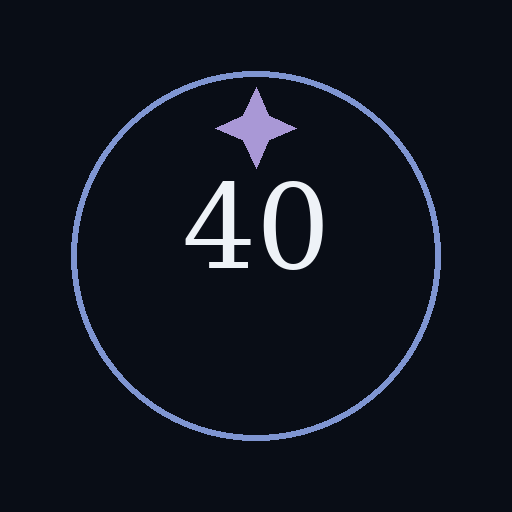
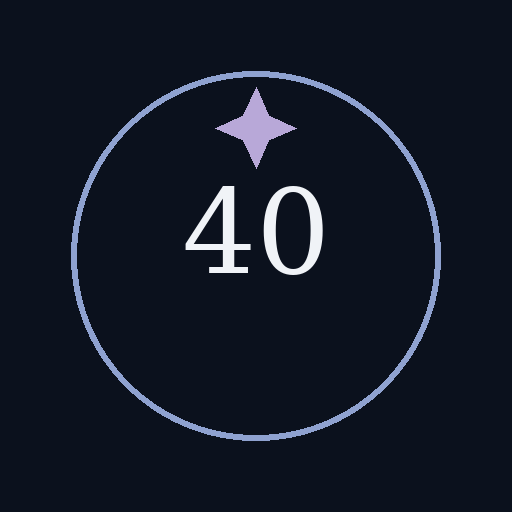
Add files via upload

Changed region(s): [[0.3438, 0.3438, 0.625, 0.5625], [0.5, 0.3438, 0.625, 0.4062]]

diff --git a/styles.css b/styles.css
@@ -1,47 +1,77 @@
 
 :root{
- --ink:#090d16;--surface:#111827;--surface2:#151e2e;--line:#32405a;
- --moon:#eef2f7;--mist:#9aa8bb;--magic:#7f95d1;--magic2:#a998d6;
- --success:#93d8c4;--warning:#d8bd84;--danger:#d99aa5;
+ --ink:#0b111d;--surface:#131c2a;--surface2:#172232;--line:#3d4c63;
+ --moon:#f0f3f7;--mist:#a6b2c2;--magic:#8fa2d0;--magic2:#b8a8d8;
+ --success:#79c9a8;--warning:#d4b36e;--danger:#d98f9e;--red:#d95d68;
 }
 *{box-sizing:border-box}
+html{scroll-behavior:smooth}
 html,body{margin:0;min-height:100%;background:var(--ink);color:var(--moon);
-font-family:Inter,ui-sans-serif,system-ui,-apple-system,BlinkMacSystemFont,"Segoe UI",sans-serif}
+font-family:Inter,ui-sans-serif,system-ui,-apple-system,BlinkMacSystemFont,"Segoe UI",Roboto,Arial,sans-serif}
 body{min-height:100vh;background:
-radial-gradient(circle at 50% -10%,rgba(127,149,209,.13),transparent 35%),
-linear-gradient(180deg,#0c111d 0%,#080c14 65%,#070a10 100%)}
-.stars{position:fixed;inset:0;pointer-events:none;opacity:.28;background-image:
+radial-gradient(circle at 50% -10%,rgba(143,162,208,.12),transparent 36%),
+linear-gradient(180deg,#0f1725 0%,#0b111d 70%,#080d16 100%)}
+.stars{position:fixed;inset:0;pointer-events:none;opacity:.22;background-image:
 radial-gradient(circle at 20% 15%,#fff 0 1px,transparent 1.3px),
 radial-gradient(circle at 72% 11%,#fff 0 1px,transparent 1.3px),
 radial-gradient(circle at 84% 42%,#fff 0 1px,transparent 1.3px),
 radial-gradient(circle at 10% 58%,#fff 0 1px,transparent 1.3px);
 background-size:260px 260px,340px 340px,390px 390px,310px 310px}
-.app-shell{position:relative;width:min(100%,760px);margin:auto;min-height:100vh;padding:38px 22px 55px}
+.app-shell{position:relative;width:min(92vw,820px);margin:auto;min-height:100vh;padding:clamp(24px,4vw,52px) clamp(14px,3vw,28px) 56px}
 .screen{display:none;width:100%;animation:fade .22s ease}.screen.active{display:block}
-@keyframes fade{from{opacity:0;transform:translateY(5px)}to{opacity:1;transform:none}}
-.masthead{text-align:center;padding:8px 0 20px}.sigil,.secret-mark{text-align:center;color:var(--magic2);font-size:34px;margin-bottom:10px}
-.overline,.day-eyebrow,.section-heading,.card-label{font-size:11px;font-weight:750;letter-spacing:2.2px;color:var(--magic);text-align:center}
-h1{font-family:Georgia,"Times New Roman",serif;font-size:clamp(36px,7vw,58px);font-weight:500;letter-spacing:1px;margin:10px 0 8px}
-h1 span{font-style:italic;color:#c8bce5}h2{font-family:Georgia,"Times New Roman",serif;text-align:center;font-size:clamp(28px,5vw,38px);font-weight:500;margin:12px 0 22px}
-.tagline,.muted{color:var(--mist);text-align:center;line-height:1.55}.tagline{margin:0;font-family:Georgia,serif;font-style:italic;font-size:17px}
-.welcome-card,.score-card,.puzzle-card{background:linear-gradient(180deg,rgba(21,30,46,.88),rgba(14,21,33,.9));border:1px solid var(--line);border-radius:18px;box-shadow:0 18px 55px rgba(0,0,0,.25)}
+@keyframes fade{from{opacity:0;transform:translateY(4px)}to{opacity:1;transform:none}}
+.masthead{text-align:center;padding:6px 0 20px}.sigil,.secret-mark{text-align:center;color:var(--magic2);font-size:34px;margin-bottom:9px}
+.overline,.day-eyebrow,.section-heading,.card-label{font-size:clamp(10px,1.6vw,12px);font-weight:750;letter-spacing:2px;color:var(--magic);text-align:center}
+h1{font-family:Georgia,"Times New Roman",serif;font-size:clamp(34px,6vw,58px);font-weight:500;letter-spacing:.8px;margin:10px 0 8px}
+h1 span{font-style:italic;color:#c9bce4}h2{font-family:Georgia,"Times New Roman",serif;text-align:center;font-size:clamp(27px,4.5vw,38px);font-weight:500;margin:12px 0 22px}
+.tagline,.muted{color:var(--mist);text-align:center;line-height:1.55}.tagline{margin:0;font-family:Georgia,serif;font-style:italic;font-size:clamp(15px,2vw,17px)}
+.welcome-card,.score-card,.puzzle-card{background:linear-gradient(180deg,rgba(23,34,50,.9),rgba(15,23,36,.94));border:1px solid var(--line);border-radius:18px;box-shadow:0 18px 55px rgba(0,0,0,.22)}
 .welcome-card{padding:24px;text-align:center;margin:18px 0}.welcome-card p{color:#c4ccd8;line-height:1.65;margin:12px 0 0}
-.score-card{padding:22px;margin:14px 0 28px}.score-title{text-align:center;font-size:13px;font-weight:800;letter-spacing:1.5px;color:#c6cfdd}.score-title span{font-family:Georgia,serif;font-style:italic;font-weight:400;color:var(--mist);letter-spacing:0}
-.score-main{display:flex;justify-content:center;align-items:center;gap:25px;margin:18px 0}.score-main>div:not(.score-divider){display:flex;flex-direction:column;align-items:center;min-width:90px}.score-main strong{font-family:Georgia,serif;font-size:46px;font-weight:500}.score-main small{font-size:9px;letter-spacing:1.5px;color:var(--mist)}.score-divider{color:#52627d;font-size:28px}
-.score-stats{border-top:1px solid rgba(255,255,255,.07);padding-top:14px;display:flex;flex-wrap:wrap;justify-content:center;gap:10px 20px;color:var(--mist);font-size:12px}.score-stats b{color:var(--moon)}
+.score-card{padding:22px;margin:14px 0 28px}.score-title{text-align:center;font-size:13px;font-weight:800;letter-spacing:1.4px;color:#c6cfdd}.score-title span{font-family:Georgia,serif;font-style:italic;font-weight:400;color:var(--mist);letter-spacing:0}
+.score-main{display:flex;justify-content:center;align-items:center;gap:clamp(12px,4vw,28px);margin:18px 0}.score-main>div:not(.score-divider){display:flex;flex-direction:column;align-items:center;min-width:80px}.score-main strong{font-family:Georgia,serif;font-size:clamp(38px,7vw,48px);font-weight:500}.score-main small{font-size:9px;letter-spacing:1.4px;color:var(--mist)}.score-divider{color:#52627d;font-size:28px}
+.score-stats{border-top:1px solid rgba(255,255,255,.07);padding-top:14px;display:flex;flex-wrap:wrap;justify-content:center;gap:10px 18px;color:var(--mist);font-size:12px}.score-stats b{color:var(--moon)}
 .section-heading{margin:10px 0 14px}.day-grid{display:grid;grid-template-columns:repeat(2,minmax(0,1fr));gap:12px}
-.day-card{appearance:none;text-align:left;padding:17px;border-radius:15px;border:1px solid #273348;background:rgba(17,24,39,.88);color:var(--moon);cursor:pointer;min-height:104px}
-.day-card:hover{border-color:#4d5f83}.day-card.today{border-color:var(--magic);box-shadow:0 0 0 1px rgba(127,149,209,.12) inset}.day-card .day{font-family:Georgia,serif;font-size:21px}.day-card .date{font-size:11px;color:var(--mist);margin-top:5px}.day-card .state{font-size:12px;margin-top:12px;color:#aebbd0}.day-card .solved{color:var(--success)}.day-card .flag{color:var(--warning)}
-.prototype-note{text-align:center;color:#66758c;font-size:10px;margin-top:18px}
-.home-link{appearance:none;background:none;border:0;color:#8391a7;font-size:11px;font-weight:750;letter-spacing:1.4px;padding:0;margin:0 0 28px;cursor:pointer}
-.puzzle-card{padding:28px 26px;margin:18px 0}.card-label{text-align:left;color:#7788aa;margin-bottom:18px}.question{text-align:center;font-family:Georgia,serif;font-size:clamp(20px,4vw,25px);line-height:1.65;margin:0;color:#edf0f5}
-input{width:100%;padding:16px 18px;margin:4px 0 10px;border-radius:13px;border:1px solid #34435e;background:#0d1420;color:var(--moon);font-size:17px;text-align:center;outline:none}
-input:focus{border-color:var(--magic);box-shadow:0 0 0 3px rgba(127,149,209,.10)}
-button.primary,button.secondary,button.giveup,.home-button{width:100%;padding:15px 18px;margin-top:10px;border-radius:13px;font-size:14px;font-weight:750;letter-spacing:.3px;cursor:pointer}
-.primary{border:1px solid #7185bb;background:#536994;color:#fff}.secondary{border:1px solid #33435d;background:#131d2b;color:#c6cfdd}.giveup{border:1px solid #61404a;background:#261820;color:#e3b5bd}.home-button{border:1px solid #273348;background:transparent;color:#8795aa}
-.status-panel{min-height:62px;text-align:center;padding:10px 4px 0}.feedback,.attempts{margin:3px 0;font-size:13px}.feedback.bad{color:#d6a7af}.feedback.good{color:var(--success)}.attempts{color:#aeb8c8}
-.hidden{display:none!important}.compact{text-align:center}.answer-reveal{text-align:center;font-family:Georgia,serif;font-size:45px;color:#c8bce5;letter-spacing:3px;margin:18px 0}
-.divider{display:flex;align-items:center;gap:12px;margin:25px 0 8px;color:#67758a}.divider span{height:1px;background:#273348;flex:1}.divider em{font-style:normal;font-size:10px;letter-spacing:1.5px}
+.day-card{appearance:none;text-align:left;padding:17px;border-radius:15px;border:1px solid #2d394e;background:rgba(17,25,39,.9);color:var(--moon);cursor:pointer;min-height:108px;transition:transform .28s ease,border-color .2s ease,box-shadow .2s ease}
+.day-card:hover{border-color:#4f6284}.day-card .dayline{display:flex;align-items:center;justify-content:space-between;gap:12px}.day-card .day{font-family:Georgia,serif;font-size:21px}.day-card .lock{font-size:18px}.day-card .date{font-size:11px;color:var(--mist);margin-top:5px}.day-card .state{font-size:12px;margin-top:12px;color:#aebbd0}.day-card .solved{color:var(--success)}.day-card .flag{color:var(--warning)}
+.lock.unsolved{color:var(--red)}.lock.solved{color:var(--success)}
+.day-card.entering{animation:cardIn .34s ease}@keyframes cardIn{from{opacity:0;transform:translateY(-8px)}to{opacity:1;transform:none}}
+.empty-state{text-align:center;color:var(--mist);padding:28px 0}
+.test-tools{text-align:center;color:#687990;font-size:10px;margin-top:20px;line-height:1.6}.test-tools code{color:#8295b3;background:#101827;padding:2px 4px;border-radius:4px}
+.hidden{display:none!important}
+.home-link{appearance:none;background:none;border:0;color:#8a98ad;font-size:11px;font-weight:750;letter-spacing:1.3px;padding:0;margin:0 0 28px;cursor:pointer}
+.puzzle-card{padding:clamp(24px,4vw,34px);margin:18px auto;width:min(100%,720px)}.card-label{text-align:left;color:#7f90b3;margin-bottom:18px}
+.question{font-family:Georgia,"Times New Roman",serif;font-size:clamp(19px,3vw,24px);line-height:1.65;color:#eef1f5;text-align:center;max-width:34em;margin:auto}
+.question .line{display:block;text-wrap:balance}.question .gap{height:1em}
+.scroll-cue{display:flex;flex-direction:column;align-items:center;gap:2px;margin:4px auto 12px;background:transparent;border:0;color:#8191ad;cursor:pointer;font-size:11px;letter-spacing:.5px}
+.scroll-cue .chevron{font-size:28px;line-height:1;animation:bounce 1.7s ease-in-out infinite}
+@keyframes bounce{0%,100%{transform:translateY(0)}50%{transform:translateY(6px)}}
+.answer-area{width:min(100%,620px);margin:0 auto}
+input{width:100%;padding:16px 18px;margin:4px 0 10px;border-radius:13px;border:1px solid #3b4a63;background:#0d1420;color:var(--moon);font-size:17px;text-align:center;outline:none}
+input:focus{border-color:var(--magic);box-shadow:0 0 0 3px rgba(143,162,208,.10)}
+button.primary,button.secondary,button.giveup,.home-button{width:100%;padding:15px 18px;margin-top:10px;border-radius:13px;font-size:14px;font-weight:750;letter-spacing:.2px;cursor:pointer}
+.primary{border:1px solid #7387b8;background:#536994;color:#fff}.secondary{border:1px solid #3a4a62;background:#141e2d;color:#c6cfdd}.giveup{border:1px solid #62414b;background:#261820;color:#e3b5bd}.home-button{border:1px solid #2d394e;background:transparent;color:#8795aa}
+.status-panel{min-height:62px;text-align:center;padding:10px 4px 0}.feedback,.attempts{margin:3px 0;font-size:13px}.feedback.bad{color:#d1a5ad}.feedback.good{color:var(--success)}.attempts{color:#aeb8c8}
+.compact{text-align:center}.answer-reveal{text-align:center;font-family:Georgia,serif;font-size:45px;color:#c8bce5;letter-spacing:3px;margin:18px 0}
+.divider{display:flex;align-items:center;gap:12px;margin:25px 0 8px;color:#67758a}.divider span{height:1px;background:#2d394e;flex:1}.divider em{font-style:normal;font-size:10px;letter-spacing:1.5px}
 .qr-wrap{width:min(280px,75vw);padding:15px;margin:18px auto;background:#fff;border-radius:14px}.qr-wrap img{display:block;width:100%;height:auto}.small{font-size:12px}
-@media(max-width:560px){.app-shell{padding:26px 16px 42px}.day-grid{grid-template-columns:1fr}.welcome-card,.score-card,.puzzle-card{border-radius:16px}.score-stats{gap:8px 14px}.score-main{gap:12px}.score-main strong{font-size:40px}}
-@media(min-width:900px){.app-shell{width:min(100%,820px);padding-top:55px}.day-card{min-height:112px}}
+
+@media(max-width:620px){
+ .app-shell{width:min(100%,520px);padding:24px 16px 42px}
+ .day-grid{grid-template-columns:1fr}
+ .welcome-card,.score-card,.puzzle-card{border-radius:16px}
+ .score-stats{gap:8px 12px}
+ .question{max-width:26em}
+}
+@media(min-width:621px) and (max-width:900px){
+ .app-shell{width:min(94vw,760px)}
+ .question{max-width:31em}
+}
+@media(min-width:901px){
+ .app-shell{width:min(88vw,840px)}
+ .question{max-width:34em}
+}
+@media(orientation:landscape) and (max-height:620px){
+ .app-shell{padding-top:18px}
+ .masthead{padding-top:0}
+ .welcome-card{padding:18px}
+}

diff --git a/app.js b/app.js
@@ -1,25 +1,34 @@
 
-const TEST_MODE = true; // v0.5: keep Days 40–35 open while RK tests.
+const TEST_MODE = true;
+const DEFAULT_TEST_DATE = "2026-10-02";
 const MAX_ATTEMPTS = 4;
 
 const DAYS = [
  {day:40,date:"2026-09-27",displayDate:"September 27, 2026",
-  question:"Forty days before you entered this world, your story had already begun.<br><br>Your mother could have been anywhere on Earth…<br><br>Can you name the city where she may have been physically present?",
+  lines:[
+   "Forty days before you entered this world,",
+   "your story had already begun.",
+   "",
+   "Your mother could have been anywhere on Earth…",
+   "",
+   "Can you name the city where she may have been",
+   "physically present?"
+  ],
   answerDisplay:"DUBAI",answers:["dubai"],hint:"Think of a city in the United Arab Emirates.",video:"https://youtu.be/z3DiPjZfbFY"},
  {day:39,date:"2026-09-28",displayDate:"September 28, 2026",
-  question:"I have cities, but no houses. I have mountains, but no trees. I have water, but no fish.<br><br>What am I?",
+  lines:["I have cities, but no houses.","I have mountains, but no trees.","I have water, but no fish.","","What am I?"],
   answerDisplay:"A MAP",answers:["map","a map"],hint:"You might use one before a hiking or travel adventure.",video:"https://www.youtube.com/results?search_query=top+hindi+songs+2026"},
  {day:38,date:"2026-09-29",displayDate:"September 29, 2026",
-  question:"The more of me you take, the more you leave behind.<br><br>What am I?",
+  lines:["The more of me you take,","the more you leave behind.","","What am I?"],
   answerDisplay:"FOOTSTEPS",answers:["footsteps","steps"],hint:"Think about what follows you on a hike.",video:"https://www.youtube.com/results?search_query=best+hindi+songs+2026"},
  {day:37,date:"2026-09-30",displayDate:"September 30, 2026",
-  question:"I travel around the world while staying in one corner.<br><br>What am I?",
+  lines:["I travel around the world","while staying in one corner.","","What am I?"],
   answerDisplay:"A STAMP",answers:["stamp","a stamp","postage stamp"],hint:"Travel, envelopes, and one small corner.",video:"https://www.youtube.com/results?search_query=2026+bollywood+hits"},
  {day:36,date:"2026-10-01",displayDate:"October 1, 2026",
-  question:"What gets wetter the more it dries?",
+  lines:["What gets wetter","the more it dries?"],
   answerDisplay:"A TOWEL",answers:["towel","a towel"],hint:"You might need one after a spa day.",video:"https://www.youtube.com/results?search_query=top+10+bollywood+songs+2026"},
  {day:35,date:"2026-10-02",displayDate:"October 2, 2026",
-  question:"What has many keys but can’t open a single lock?",
+  lines:["What has many keys","but can’t open a single lock?"],
   answerDisplay:"A PIANO",answers:["piano","a piano","keyboard"],hint:"These keys make music.",video:"https://www.youtube.com/results?search_query=hindi+romantic+songs+2026"}
 ];
 
@@ -36,35 +45,40 @@ let currentDay=DAYS[0], attemptsUsed=0, unusedMessages=[];
 
 const $=id=>document.getElementById(id);
 const screens=[...document.querySelectorAll(".screen")];
+const params=new URLSearchParams(location.search);
 
-function show(id){screens.forEach(s=>s.classList.toggle("active",s.id===id));window.scrollTo({top:0,behavior:"smooth"})}
+function todayISO(){
+ if(TEST_MODE) return params.get("testDate") || DEFAULT_TEST_DATE;
+ const d=new Date();
+ return `${d.getFullYear()}-${String(d.getMonth()+1).padStart(2,"0")}-${String(d.getDate()).padStart(2,"0")}`;
+}
+function show(id){screens.forEach(s=>s.classList.toggle("active",s.id===id));window.scrollTo({top:0,left:0,behavior:"auto"})}
 function norm(v){return v.trim().toLowerCase().replace(/\s+/g," ")}
 function key(day){return `mika40_day_${day}`}
 function getResult(day){try{return JSON.parse(localStorage.getItem(key(day))||"null")}catch{return null}}
 function saveResult(day,result){localStorage.setItem(key(day),JSON.stringify(result))}
-function available(d){
- if(TEST_MODE) return true;
- const today=new Date(); today.setHours(23,59,59,999);
- const unlock=new Date(d.date+"T00:00:00");
- return today>=unlock;
-}
+function isVisible(d){return d.date<=todayISO()}
 function randomWrong(){
  if(!unusedMessages.length)unusedMessages=[...WRONG_MESSAGES];
  return unusedMessages.splice(Math.floor(Math.random()*unusedMessages.length),1)[0];
 }
+function visibleDays(){
+ return DAYS.filter(isVisible).sort((a,b)=>b.date.localeCompare(a.date)); // newest first
+}
 function computeStats(){
- const completed=DAYS.map(d=>({d,r:getResult(d.day)})).filter(x=>x.r);
- const solved=completed.filter(x=>x.r.outcome==="solved");
- const flags=completed.filter(x=>x.r.outcome==="gave-up");
- let firstTry=solved.filter(x=>x.r.attempts===1).length;
- let streak=0;
- for(const d of DAYS){
+ const ordered=DAYS.filter(isVisible).sort((a,b)=>a.date.localeCompare(b.date)); // chronological
+ let solved=0,flags=0,firstTry=0,current=0,best=0;
+ for(const d of ordered){
    const r=getResult(d.day);
-   if(!r) continue;
-   if(r.outcome==="solved") streak++;
-   else streak=0;
+   if(!r) continue; // missed day doesn't break streak
+   if(r.outcome==="solved"){
+     solved++; if(r.attempts===1) firstTry++;
+     current++; best=Math.max(best,current);
+   }else if(r.outcome==="gave-up"){
+     flags++; current=0;
+   }
  }
- return {solved:solved.length,flags:flags.length,firstTry,streak};
+ return {solved,flags,firstTry,current,best};
 }
 function renderScore(){
  const s=computeStats();
@@ -73,26 +87,32 @@ function renderScore(){
  $("solvedCount").textContent=s.solved;
  $("flagCount").textContent=s.flags;
  $("firstTryCount").textContent=s.firstTry;
- $("streakCount").textContent=s.streak;
+ $("streakCount").textContent=s.current;
+ $("bestStreakCount").textContent=s.best;
 }
-function stateText(d){
+function stateMarkup(d){
  const r=getResult(d.day);
- if(r?.outcome==="solved") return `<span class="solved">✦ Mystery solved · ${r.attempts} attempt${r.attempts===1?"":"s"}</span>`;
- if(r?.outcome==="gave-up") return `<span class="flag">🏳 The Mystery won this one</span>`;
- if(!available(d)) return `🔒 Not yet revealed`;
- return `Ready to unlock`;
+ if(r?.outcome==="solved") return {lock:`<span class="lock solved">🔓</span>`,state:`<span class="solved">Mystery solved · ${r.attempts} attempt${r.attempts===1?"":"s"}</span>`};
+ if(r?.outcome==="gave-up") return {lock:`<span class="lock solved">🔓</span>`,state:`<span class="flag">🏳 The Mystery won this one</span>`};
+ return {lock:`<span class="lock unsolved">🔒</span>`,state:`Ready to unlock`};
 }
 function renderGrid(){
  const grid=$("dayGrid");grid.innerHTML="";
- DAYS.forEach((d,i)=>{
-   const b=document.createElement("button");b.className="day-card";
-   if(i===0)b.classList.add("today");
-   b.disabled=!available(d);
-   b.innerHTML=`<div class="day">SECRET ${d.day}</div><div class="date">${d.displayDate}</div><div class="state">${stateText(d)}</div>`;
-   if(available(d))b.onclick=()=>openDay(d.day);
+ const vd=visibleDays();
+ $("emptyState").classList.toggle("hidden",vd.length>0);
+ vd.forEach((d,i)=>{
+   const status=stateMarkup(d);
+   const b=document.createElement("button");
+   b.className="day-card entering";
+   b.innerHTML=`<div class="dayline"><div class="day">SECRET ${d.day}</div>${status.lock}</div><div class="date">${d.displayDate}</div><div class="state">${status.state}</div>`;
+   b.onclick=()=>openDay(d.day);
    grid.appendChild(b);
  });
  renderScore();
+ $("simDateText").textContent=todayISO();
+}
+function renderQuestion(lines){
+ $("puzzleText").innerHTML=lines.map(line=>line===""?`<div class="gap"></div>`:`<span class="line">${line}</span>`).join("");
 }
 function resetPuzzle(){
  attemptsUsed=0;unusedMessages=[...WRONG_MESSAGES];
@@ -103,8 +123,9 @@ function resetPuzzle(){
 function openDay(n){
  currentDay=DAYS.find(d=>d.day===n);resetPuzzle();
  $("dayEyebrow").textContent=`SECRET ${currentDay.day} · ${currentDay.displayDate.toUpperCase()}`;
- $("puzzleText").innerHTML=currentDay.question;show("puzzle");
- setTimeout(()=>$("answerInput").focus(),180);
+ renderQuestion(currentDay.lines);
+ show("puzzle");
+ // v0.6: deliberately NO autofocus. Riddle stays in view on mobile.
 }
 function check(){
  const input=$("answerInput"), value=norm(input.value);
@@ -112,11 +133,11 @@ function check(){
  if(currentDay.answers.includes(value)){
    const tries=attemptsUsed+1;
    saveResult(currentDay.day,{outcome:"solved",attempts:tries,completedAt:new Date().toISOString()});
-   input.value="";$("feedback").textContent="Secret unlocked."; $("feedback").className="feedback good";$("attempts").textContent="";
+   input.value="";$("feedback").textContent="Secret unlocked.";$("feedback").className="feedback good";$("attempts").textContent="";
    setTimeout(()=>show("success"),220);return;
  }
  attemptsUsed++;
- input.value="";input.focus();
+ input.value="";
  const remaining=MAX_ATTEMPTS-attemptsUsed;
  $("feedback").textContent=randomWrong();$("feedback").className="feedback bad";
  $("attempts").textContent=remaining>0?`${remaining} attempt${remaining===1?"":"s"} remaining`:"Four attempts used.";
@@ -127,6 +148,7 @@ function check(){
 $("submitBtn").onclick=check;
 $("answerInput").addEventListener("keydown",e=>{if(e.key==="Enter"&&!$("submitBtn").disabled)check()});
 $("hintBtn").onclick=()=>{$("feedback").textContent=`Hint: ${currentDay.hint}`;$("feedback").className="feedback";};
+$("scrollCue").onclick=()=>$("answerArea").scrollIntoView({behavior:"smooth",block:"start"});
 $("giveUpBtn").onclick=()=>show("confirmGiveUp");
 $("tryAgainBtn").onclick=()=>{resetPuzzle();show("puzzle")};
 $("saveMeBtn").onclick=()=>{
@@ -139,13 +161,10 @@ function openSurprise(){
 }
 $("successSurpriseBtn").onclick=openSurprise;
 $("surrenderSurpriseBtn").onclick=openSurprise;
-
-// v0.5: preserve the game tab when the video opens.
 $("watchBtn").onclick=()=>window.open(currentDay.video,"_blank","noopener,noreferrer");
-
 document.querySelectorAll("[data-home]").forEach(b=>b.onclick=()=>{renderGrid();show("home")});
 renderGrid();
 
 if("serviceWorker" in navigator){
- window.addEventListener("load",()=>navigator.serviceWorker.register("./sw.js"));
+ window.addEventListener("load",()=>navigator.serviceWorker.register("./sw.js").catch(()=>{}));
 }

diff --git a/index.html b/index.html
@@ -3,7 +3,7 @@
 <head>
 <meta charset="utf-8">
 <meta name="viewport" content="width=device-width,initial-scale=1,viewport-fit=cover">
-<meta name="theme-color" content="#090d16">
+<meta name="theme-color" content="#0d1422">
 <title>Mika's 40 Secrets</title>
 <link rel="manifest" href="manifest.webmanifest">
 <link rel="stylesheet" href="styles.css">
@@ -36,13 +36,20 @@
       <span>✦ Solved <b id="solvedCount">0</b></span>
       <span>🏳 White Flags <b id="flagCount">0</b></span>
       <span>◎ First-Try <b id="firstTryCount">0</b></span>
-      <span>🔥 Streak <b id="streakCount">0</b></span>
+      <span>🔥 Current <b id="streakCount">0</b></span>
+      <span>★ Best <b id="bestStreakCount">0</b></span>
     </div>
   </section>
 
   <div class="section-heading">YOUR SECRETS</div>
   <div id="dayGrid" class="day-grid"></div>
-  <p class="prototype-note">v0.5 testing mode · Secrets 40–35 are available.</p>
+  <p id="emptyState" class="empty-state hidden">Your first secret has not been revealed yet.</p>
+
+  <div class="test-tools">
+    <div>v0.6 TEST MODE</div>
+    <div>Simulated date: <b id="simDateText"></b></div>
+    <div class="test-hint">Try <code>?testDate=2026-09-30</code> or <code>?testDate=2026-10-02</code></div>
+  </div>
 </section>
 
 <section id="puzzle" class="screen">
@@ -52,20 +59,27 @@
 
   <div class="puzzle-card">
     <div class="card-label">TODAY'S SECRET</div>
-    <p id="puzzleText" class="question"></p>
+    <div id="puzzleText" class="question"></div>
   </div>
 
-  <input id="answerInput" type="text" placeholder="Type your answer" autocomplete="off">
-  <button id="submitBtn" class="primary">UNLOCK THE SECRET</button>
-  <button id="hintBtn" class="secondary">SHOW HINT</button>
+  <button id="scrollCue" class="scroll-cue" type="button" aria-label="Continue to answer">
+    <span>Continue to answer</span>
+    <span class="chevron">⌄</span>
+  </button>
 
-  <div id="statusPanel" class="status-panel">
-    <p id="feedback" class="feedback"></p>
-    <p id="attempts" class="attempts"></p>
+  <div id="answerArea" class="answer-area">
+    <input id="answerInput" type="text" placeholder="Type your answer" autocomplete="off">
+    <button id="submitBtn" class="primary">UNLOCK THE SECRET</button>
+    <button id="hintBtn" class="secondary">SHOW HINT</button>
+
+    <div id="statusPanel" class="status-panel">
+      <p id="feedback" class="feedback"></p>
+      <p id="attempts" class="attempts"></p>
+    </div>
+
+    <button id="giveUpBtn" class="giveup hidden">I GIVE UP — I'M SO OLD… I'M ABOUT TO TURN 40! 😂</button>
+    <button class="home-button" data-home>HOME</button>
   </div>
-
-  <button id="giveUpBtn" class="giveup hidden">I GIVE UP — I'M SO OLD… I'M ABOUT TO TURN 40! 😂</button>
-  <button class="home-button" data-home>HOME</button>
 </section>
 
 <section id="confirmGiveUp" class="screen">
@@ -97,7 +111,7 @@
   <div class="secret-mark">✦</div>
   <div class="day-eyebrow">SECRET UNLOCKED</div>
   <h2>THE MYSTERY HAS BEEN SOLVED</h2>
-  <p id="successCopy" class="muted">Nicely done, Mika.</p>
+  <p class="muted">Nicely done, Mika.</p>
   <button id="successSurpriseBtn" class="primary">OPEN TODAY'S SURPRISE</button>
 </section>
 

diff --git a/sw.js b/sw.js
@@ -1,1 +1,1 @@
-const CACHE='mikas-40-secrets-v05';const ASSETS=['./','./index.html','./styles.css','./app.js','./manifest.webmanifest','./icon-192.png','./icon-512.png'];self.addEventListener('install',e=>{self.skipWaiting();e.waitUntil(caches.open(CACHE).then(c=>c.addAll(ASSETS)))});self.addEventListener('activate',e=>e.waitUntil(caches.keys().then(k=>Promise.all(k.filter(x=>x!==CACHE).map(x=>caches.delete(x)))).then(()=>self.clients.claim())));self.addEventListener('fetch',e=>e.respondWith(fetch(e.request).catch(()=>caches.match(e.request))));
+const CACHE='mikas-40-secrets-v06';const ASSETS=['./','./index.html','./styles.css','./app.js','./manifest.webmanifest','./icon-192.png','./icon-512.png'];self.addEventListener('install',e=>{self.skipWaiting();e.waitUntil(caches.open(CACHE).then(c=>c.addAll(ASSETS)))});self.addEventListener('activate',e=>e.waitUntil(caches.keys().then(k=>Promise.all(k.filter(x=>x!==CACHE).map(x=>caches.delete(x)))).then(()=>self.clients.claim())));self.addEventListener('fetch',e=>{if(e.request.method!=='GET')return;e.respondWith(fetch(e.request).then(r=>{const copy=r.clone();caches.open(CACHE).then(c=>c.put(e.request,copy));return r}).catch(()=>caches.match(e.request)))})
